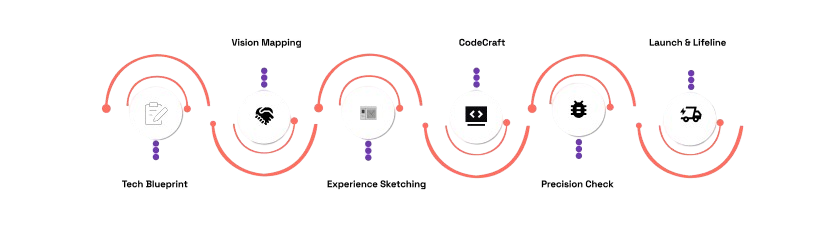
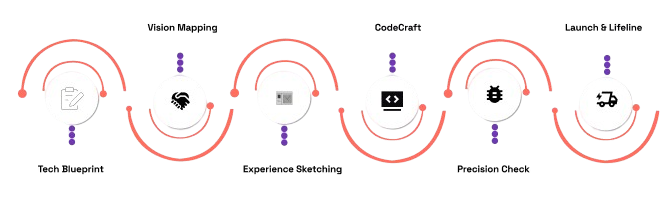
koch major changing done

diff --git a/blog/templates/blog/blog.html b/blog/templates/blog/blog.html
@@ -48,45 +48,38 @@
         </select>
       </div>
     </div>
+    <!--Blog -->
 
-    <!-- Blog Cards (placeholder for dynamic blogs) -->
     <div class="row g-4">
-      <!-- Example Blog Card -->
-      <div class="col-md-4">
-        <div class="card h-100 shadow-sm border-0">
-          <img src="{% static 'assets/images/blog1.jpg' %}" class="card-img-top" alt="Blog Post">
-          <div class="card-body">
-            <h5 class="card-title">How AI is Transforming Modern Business</h5>
-            <p class="card-text text-muted">Explore the impact of artificial intelligence on business strategy, operations, and customer experience in 2025.</p>
-            <a href="#" class="text-decoration-none" style="color: var(--primary);">Read More →</a>
-          </div>
-        </div>
-      </div>
+      {% for blog in posts %}
+        <div class="col-md-4 mb-4">
+          <div class="card h-100 shadow-sm border-0">
 
-      <!-- More cards dynamically rendered using Django -->
-      {% for blog in blogs %}
-      <div class="col-md-4">
-        <div class="card h-100 shadow-sm border-0">
-          <img src="{{ blog.image.url }}" class="card-img-top" alt="{{ blog.title }}">
-          <div class="card-body">
-            <h5 class="card-title">{{ blog.title }}</h5>
-            <p class="card-text text-muted">{{ blog.excerpt }}</p>
-            <a href="{% url 'blog_detail' blog.slug %}" class="text-decoration-none" style="color: var(--primary);">Read More →</a>
+            <!-- Blog Image -->
+            {% if blog.image %}
+              <img src="{{ blog.image.url }}" class="card-img-top blog-image" alt="{{ blog.title }}">
+            {% endif %}
+
+            <!-- Card Body -->
+            <div class="card-body">
+              <h5 class="h5-small-title">{{ blog.title }}</h5>
+              <p class="body text-muted">
+                {{ blog.content|truncatewords:25 }}
+              </p>
+              <a href="{% url 'blog:blog_detail' blog.slug %}" class="btn btn-sm btn-primary">Read More</a>
+            </div>
+
           </div>
         </div>
-      </div>
+      {% empty %}
+        <p>No blogs found!</p>
       {% endfor %}
     </div>
+
   </div>
 </section>
 
-<h2>Our Blog</h2>
-{% for post in posts %}
-    <div class="blog-post">
-    <h3><a href="{% url 'blog:blog_detail' slug=post.slug %}">{{ post.title }}</a></h3>
-        <p>{{ post.content|truncatewords:20 }}</p>
-    </div>
-{% endfor %}
+
 
 
 {% endblock %}

diff --git a/assets/static/assets/css/style.css b/assets/static/assets/css/style.css
@@ -8,7 +8,6 @@
 @import url("career.css");
 @import url("about.css");
 
-@import url("responsive.css");
 
 
 
@@ -100,29 +99,6 @@
   line-height: 18px;
 }
 
-/*
-.btn-primary {
-  font-family: var(--font-body);
-  font-size: 16px;
-  font-weight: 500;
-  line-height: 24px;
-  background-color: var(--accent);
-  color: #fff;
-  padding: 12px 24px;
-  border: none;
-  border-radius: 8px;
-  cursor: pointer;
-  transition: background-color 0.3s ease;
-}
-
-.btn-primary:hover {
-  background-color: var(--primary);
-}
-  border-color: var(--alert);
-
-
-*/
-
 /* Button */
 .btn.btn-primary {
   background-color: var(--primary);
@@ -132,6 +108,7 @@
   transition: all 0.3s ease;
   padding: 8px 20px;
   font-size: 14px;
+  border-color:var(--primary)
 }
 
 .btn.btn-primary:hover {

diff --git a/careers/templates/careers/careers.html b/careers/templates/careers/careers.html
@@ -56,6 +56,7 @@
         <div class="card shadow-sm p-4 h-100">
           <h5 class="fw-bold text-dark mb-2">Frontend Developer</h5>
           <p class="text-muted small mb-2 d-flex align-items-center gap-3">
+          <span class="d-flex align-items-center gap-1">
             <svg version="1.0" id="Layer_1" xmlns="http://www.w3.org/2000/svg" xmlns:xlink="http://www.w3.org/1999/xlink" width="15px" height="15px" viewBox="0 0 64 64" enable-background="new 0 0 64 64" xml:space="preserve">
                 <g>
                   <path fill="var(--primary)" d="M32,0C18.745,0,8,10.745,8,24c0,5.678,2.502,10.671,5.271,15l17.097,24.156C30.743,63.686,31.352,64,32,64
@@ -66,7 +67,7 @@
                 </g>
             </svg> 
             Remote
-            </span>
+          </span>
             <span class="d-flex align-items-center gap-1">
               <svg width="15px" height="15px" viewBox="0 0 19 19" xmlns="http://www.w3.org/2000/svg">
                 <path fill="var(--primary)" fill-rule="evenodd" d="M207.960546,159.843246 L210.399107,161.251151 C210.637153,161.388586 210.71416,161.70086 210.580127,161.933013 C210.442056,162.172159 210.144067,162.258604 209.899107,162.117176 L207.419233,160.68542 C207.165323,160.8826 206.846372,161 206.5,161 C205.671573,161 205,160.328427 205,159.5 C205,158.846891 205.417404,158.291271 206,158.085353 L206,153.503423 C206,153.22539 206.231934,153 206.5,153 C206.776142,153 207,153.232903 207,153.503423 L207,158.085353 C207.582596,158.291271 208,158.846891 208,159.5 C208,159.6181 207.986351,159.733013 207.960546,159.843246 Z M206.5,169 C211.746705,169 216,164.746705 216,159.5 C216,154.253295 211.746705,150 206.5,150 C201.253295,150 197,154.253295 197,159.5 C197,164.746705 201.253295,169 206.5,169 Z" transform="translate(-197 -150)"/>

diff --git a/assets/static/assets/css/about.css b/assets/static/assets/css/about.css
@@ -9,7 +9,7 @@
   top: 0px;
   left: 0px;
   width: 280px;
-  height: 480px;
+  height: 430px;
   background-color: var(--primary);
   border-radius: 10px;
   z-index: 1;

diff --git a/core/templates/header.html b/core/templates/header.html
@@ -12,7 +12,7 @@
     <!-- Toggle button for mobile view -->
     <button class="navbar-toggler" type="button" data-bs-toggle="collapse" data-bs-target="#navLinks" 
             aria-controls="navLinks" aria-expanded="false" aria-label="Toggle navigation">
-      <span class="navbar-toggler-icon"></span>
+      <span class="navbar-toggler-icon" style="color:white;"></span>
     </button>
 
     <!-- Navbar links -->

diff --git a/core/templates/home.html b/core/templates/home.html
@@ -500,7 +500,7 @@
 
     <!-- Image Section -->
     <div class="process-image">
-      <img src="{% static 'assets/images/process.png' %}" alt="Our Process Illustration" class="img-fluid">
+      <img src="{% static 'assets/images/process.png' %}" alt="Our Process Illustration" class="img-fluid" style="width:1300px;">
     </div>
   </div>
 </section>

diff --git a/services/templates/services/services.html b/services/templates/services/services.html
@@ -432,6 +432,8 @@
     </div>
   </div>  
 </section>
+
+
 <!-- INDUSTRIES WE SERVE SECTION -->
 <section class="section industries-we-serve py-5">
    <div class="container">

diff --git a/assets/static/assets/css/home.css b/assets/static/assets/css/home.css
@@ -68,7 +68,6 @@
   border-bottom-right-radius: 20px;
   padding: 10px;
   margin: auto;
-  position: relative;
 }
 
 .our-services .card:hover {